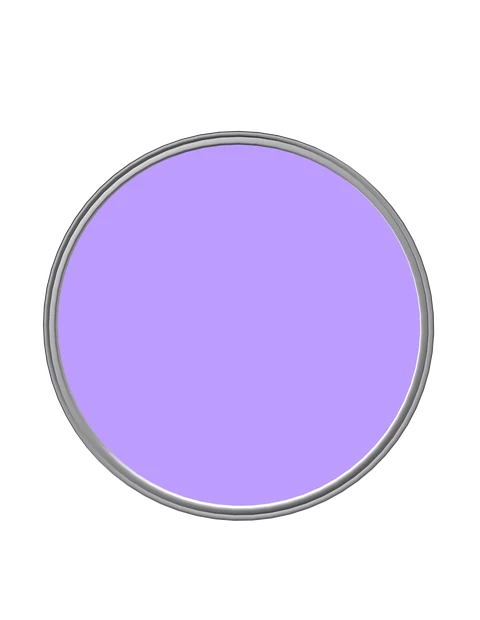
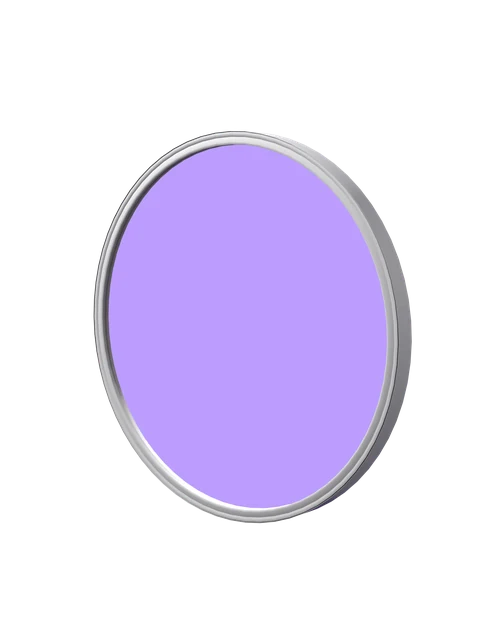
Mirror v17: 35° side perspective shows frame depth profile (3/4 view like drill)

Changed region(s): [[0.0625, 0.1839, 0.9062, 0.8581]]

diff --git a/scripts/render_mount_object_icons.py b/scripts/render_mount_object_icons.py
@@ -119,11 +119,11 @@ ICONS = {
     },
     "mirror": {
         # Sketchfab "RUSTA Hugo" — modern round wall mirror.
-        # 12° forward lean for slight gradient on reflection.
-        # smoked_glass=True tints the mirror surface so it reads as a
-        # high-end tinted/smoked glass instead of a flat lavender disc.
+        # Side perspective: -π/2 Z (face camera) THEN -35° Z (turn 35° to
+        # the side) so the mirror's frame depth profile is visible — same
+        # 3/4 staging as the drill/roller/tape gun icons.
         "glb":     "sketchfab_mirror_rusta.glb",
-        "rot_xyz": (math.radians(-12), 0, -math.pi/2),
+        "rot_xyz": (0, 0, -math.pi/2 - math.radians(35)),
         "scale":   0.55,
         "camera_fov_deg": 30,
         "smoked_glass": True,
